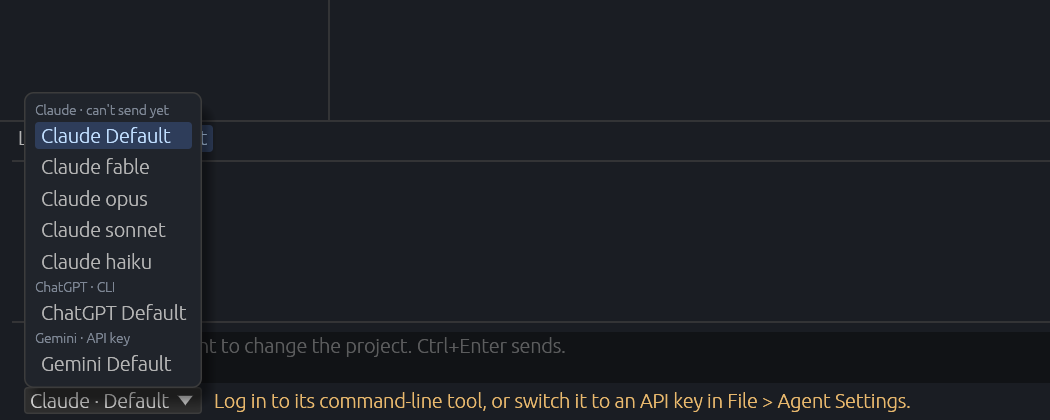
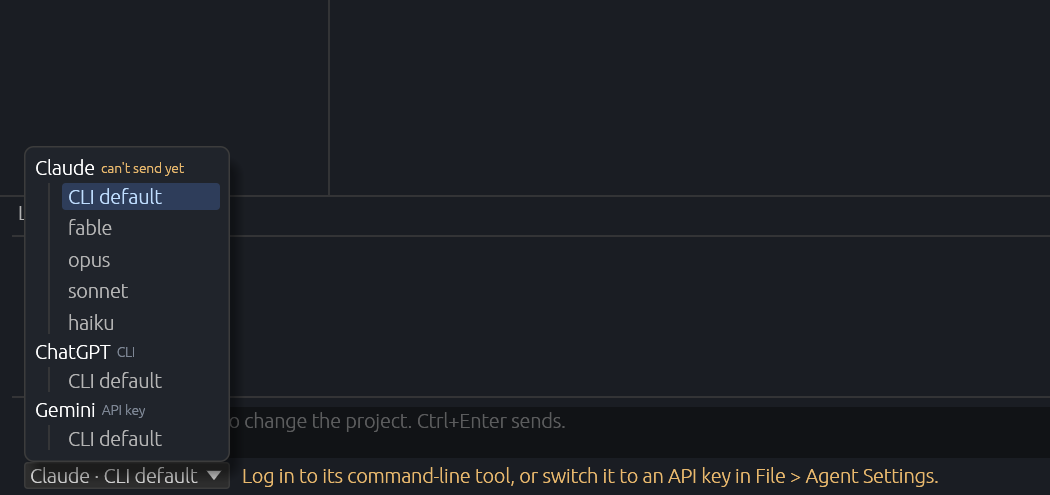
Model list: model names alone under each provider
The Agent tab's model list repeated the provider on every entry ("Claude
opus") although each provider already heads its group. Entries now show
the model alone, indented under a heading with the provider's name and
how it is reached, in the warning color when it cannot send. The CLI's
default reads "CLI default", and the list is tall enough for every
provider without scrolling.

Changed region(s): [[0.0, 0.2476, 1.0, 0.9905]]

diff --git a/crates/besfa_editor/src/agent.rs b/crates/besfa_editor/src/agent.rs
@@ -566,11 +566,15 @@ impl AgentPanel {
 }
 
 fn model_label(model: &str) -> &str {
-    if model.is_empty() { "Default" } else { model }
+    if model.is_empty() {
+        "CLI default"
+    } else {
+        model
+    }
 }
 
-/// One list of every provider's models, each provider headed by how it
-/// would be reached.
+/// One list of every provider's models: each provider's name and how it
+/// would be reached, then its models by name alone.
 fn model_picker(ui: &mut Ui, settings: &mut AgentSettings, agents: &Agents) {
     let provider = settings.provider;
     let selected = format!(
@@ -580,26 +584,40 @@ fn model_picker(ui: &mut Ui, settings: &mut AgentSettings, agents: &Agents) {
     );
     egui::ComboBox::from_id_salt("agent_model")
         .selected_text(selected)
+        // Every provider's models at once, without scrolling.
+        .height(f32::INFINITY)
         .show_ui(ui, |ui| {
             for provider in Provider::ALL {
                 let access = settings.access(provider);
-                let how = match (agents.ready(provider, access), access) {
-                    (None, _) => "checking",
-                    (Some(false), _) => "can't send yet",
-                    (Some(true), Access::Cli) => "CLI",
-                    (Some(true), Access::Key) => "API key",
+                let (how, color) = match (agents.ready(provider, access), access) {
+                    (None, _) => ("checking", panels::MUTED),
+                    (Some(false), _) => ("can't send yet", panels::WARNING),
+                    (Some(true), Access::Cli) => ("CLI", panels::MUTED),
+                    (Some(true), Access::Key) => ("API key", panels::MUTED),
                 };
-                let heading = format!("{} · {how}", provider.label());
-                ui.label(RichText::new(heading).color(panels::MUTED).small());
-                for model in std::iter::once("").chain(provider.models().iter().copied()) {
-                    let current =
-                        settings.provider == provider && settings.model(provider) == model;
-                    let label = format!("{} {}", provider.label(), model_label(model));
-                    if ui.selectable_label(current, label).clicked() {
-                        settings.provider = provider;
-                        settings.models.insert(provider, model.into());
-                    }
+                let mut heading = egui::text::LayoutJob::default();
+                for text in [
+                    RichText::new(provider.label()).strong(),
+                    RichText::new(format!("  {how}")).color(color).small(),
+                ] {
+                    text.append_to(
+                        &mut heading,
+                        ui.style(),
+                        egui::FontSelection::Default,
+                        egui::Align::Center,
+                    );
                 }
+                ui.label(heading);
+                ui.indent(provider.label(), |ui| {
+                    for model in std::iter::once("").chain(provider.models().iter().copied()) {
+                        let current =
+                            settings.provider == provider && settings.model(provider) == model;
+                        if ui.selectable_label(current, model_label(model)).clicked() {
+                            settings.provider = provider;
+                            settings.models.insert(provider, model.into());
+                        }
+                    }
+                });
             }
         });
 }
@@ -765,13 +783,18 @@ mod tests {
         harness.run();
         harness.get_by_role(egui::accesskit::Role::ComboBox).click();
         harness.run();
-        harness.get_by_label("Claude opus").click();
+        harness.get_by_label("opus").click();
         harness.run();
         assert_eq!(harness.state().settings.model(Provider::Claude), "opus");
 
         harness.get_by_role(egui::accesskit::Role::ComboBox).click();
         harness.run();
-        harness.get_by_label("ChatGPT Default").click();
+        // Each provider lists its CLI default, in `Provider::ALL` order.
+        harness
+            .get_all_by_label("CLI default")
+            .nth(1)
+            .unwrap()
+            .click();
         harness.run();
         assert_eq!(harness.state().settings.provider, Provider::OpenAi);
         assert_eq!(harness.state().settings.model(Provider::Claude), "opus");

diff --git a/crates/besfa_editor/src/editor.rs b/crates/besfa_editor/src/editor.rs
@@ -2293,9 +2293,7 @@ mod tests {
         editor.agent.access.insert(Provider::Gemini, Access::Key);
         editor.bottom_tab = BottomTab::Agent;
         harness.run_steps(4);
-        let model_list = || {
-            |node: &egui_kittest::Node| node.rect().min.y > BOTTOM_PANEL.min.y
-        };
+        let model_list = || |node: &egui_kittest::Node| node.rect().min.y > BOTTOM_PANEL.min.y;
         harness
             .get_all_by_role(egui::accesskit::Role::ComboBox)
             .find(model_list())
@@ -2307,7 +2305,7 @@ mod tests {
             &mut harness,
             "agent-tab",
             Some(egui::Rect::from_min_max(
-                egui::pos2(0.0, 520.0),
+                egui::pos2(0.0, 470.0),
                 BOTTOM_PANEL.max,
             )),
         );
